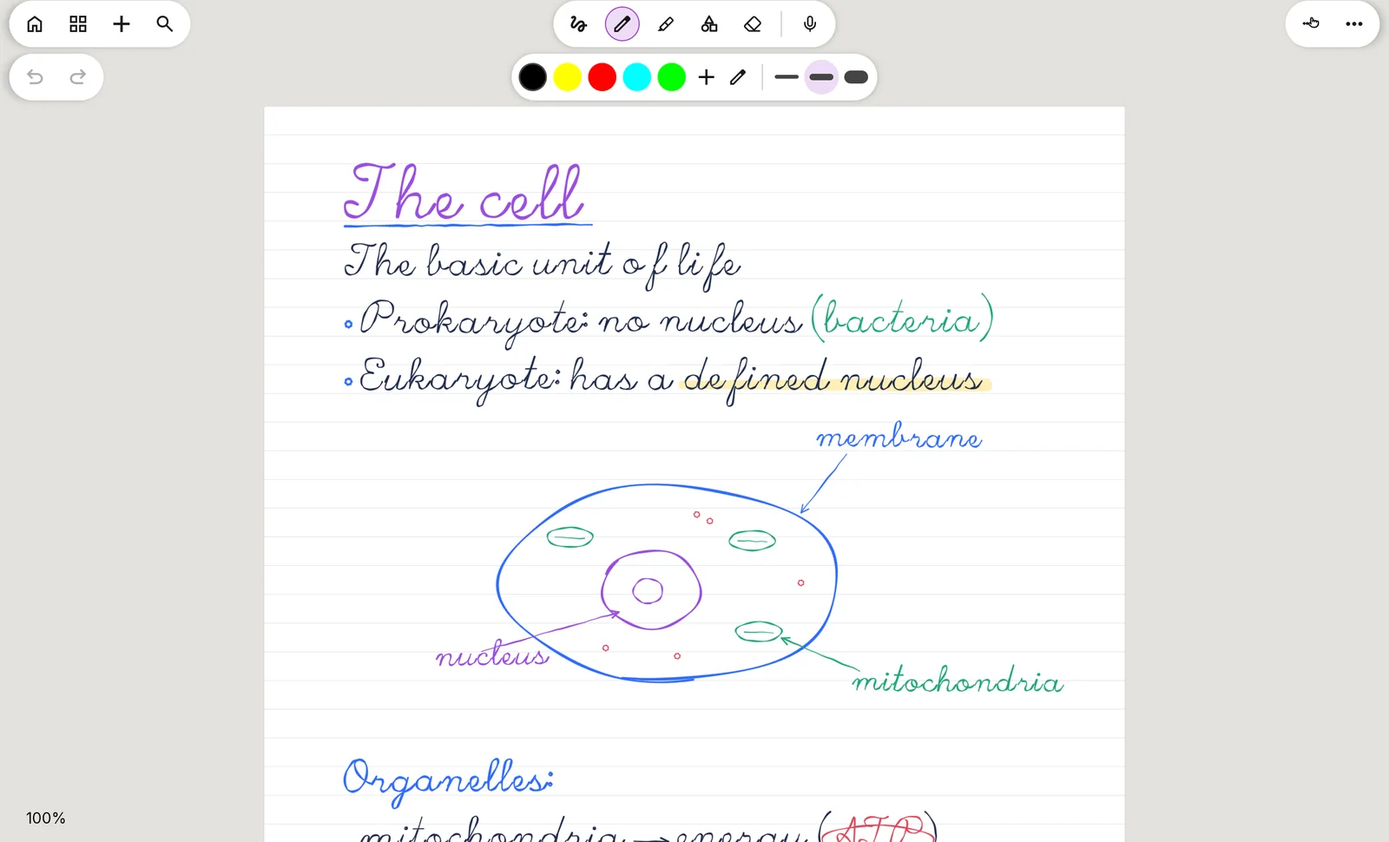
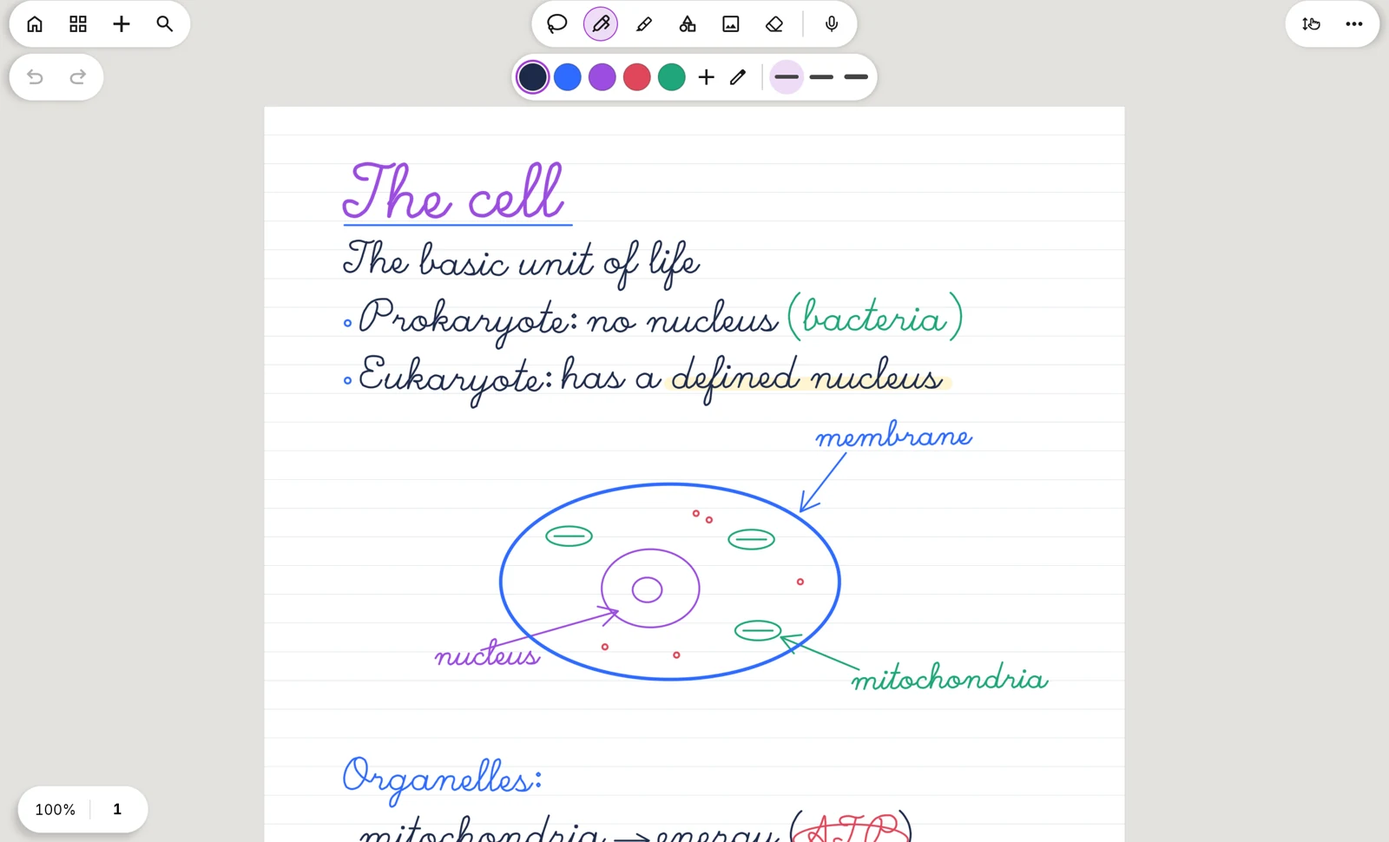
feat: la web con las funciones nuevas y capturas rehechas
- Funciones: tarjetas nuevas de fotos y escáner, lienzo infinito (BETA)
  y gestos del lápiz (BETA); tres plumas en "Tinta fluida"; el lazo en
  la tarjeta de formas dice lo que hace ahora; 3 grabaciones gratis.
- Secciones nuevas de Lazo y Lienzo infinito (BETA).
- "La barra de herramientas se adapta a cada pantalla" pasa de
  Sincronización a Escritura, que suma las formas y los dos dedos.
- Biblioteca: notas bloqueadas; Precio: fotos, lienzo y bloqueo en lo
  gratis; Privacidad: tarjeta de bloqueo con huella.
- Preguntas: los lápices y sus gestos, y probar Pro antes de pagar.
- Capturas nuevas en es/en y claro/oscuro (también el móvil y el lazo,
  que no tenían versión oscura), escritas en la app con la herramienta
  que toca (pluma, resaltador, formas) y con la cursiva unida.

Las frases aprobadas del título, el subtítulo y "pago único opcional"
no cambian.

diff --git a/swiftpen/index.html b/swiftpen/index.html
@@ -43,6 +43,10 @@
   <symbol id="i-persona" viewBox="0 0 24 24"><circle cx="12" cy="8" r="4"/><path d="M4 21a8 8 0 0 1 16 0"/></symbol>
   <symbol id="i-sinred" viewBox="0 0 24 24"><path d="M2 8.8a15 15 0 0 1 20 0M5 12.9a10 10 0 0 1 14 0M8.5 16.4a5 5 0 0 1 7 0"/><circle cx="12" cy="20" r="1"/></symbol>
   <symbol id="i-carpeta" viewBox="0 0 24 24"><path d="M3 7a2 2 0 0 1 2-2h4l2 2h8a2 2 0 0 1 2 2v8a2 2 0 0 1-2 2H5a2 2 0 0 1-2-2z"/></symbol>
+  <symbol id="i-imagen" viewBox="0 0 24 24"><rect x="3" y="4" width="18" height="16" rx="2"/><circle cx="9" cy="10" r="2"/><path d="m21 16-5-5-9 9"/></symbol>
+  <symbol id="i-infinito" viewBox="0 0 24 24"><path d="M12 12c-2-2.7-3.7-4-5.5-4a4 4 0 0 0 0 8c1.8 0 3.5-1.3 5.5-4zm0 0c2 2.7 3.7 4 5.5 4a4 4 0 0 0 0-8c-1.8 0-3.5 1.3-5.5 4z"/></symbol>
+  <symbol id="i-lapiz" viewBox="0 0 24 24"><path d="M17 3a2.8 2.8 0 0 1 4 4L7.5 20.5 2 22l1.5-5.5z"/><path d="m15 5 4 4"/></symbol>
+  <symbol id="i-huella" viewBox="0 0 24 24"><path d="M12 10a2 2 0 0 0-2 2c0 1 0 3.3-.6 5.6M14 13.1c0 2.4 0 4.9-1 7.9M17.3 21c.3-1.5.6-3.5.7-5M2 12a10 10 0 0 1 18-6M2 16h.01M21.8 16c.2-2 .1-5.4 0-6M5 19.5C5.5 18 6 15 6 12a6 6 0 0 1 .3-2M8.6 22c.2-.7.4-1.4.5-2.1M9 6.8a6 6 0 0 1 9 5.2v2"/></symbol>
   <symbol id="i-play" viewBox="0 0 24 24"><path d="M5 3.6v16.8c0 .8.9 1.3 1.6.9l13.8-8.4a1 1 0 0 0 0-1.8L6.6 2.7C5.9 2.3 5 2.8 5 3.6z"/></symbol>
 </svg>
 
@@ -90,17 +94,17 @@
     <div class="escena aparece">
       <div class="tableta">
         <picture lang="es">
-          <source srcset="img/editor-dark-es.webp?v=3" media="(prefers-color-scheme: dark)">
-          <img src="img/editor-es.webp?v=3" width="1600" height="970" alt="Una nota de biología escrita a mano en SwiftPen, con un diagrama de la célula.">
+          <source srcset="img/editor-dark-es.webp?v=4" media="(prefers-color-scheme: dark)">
+          <img src="img/editor-es.webp?v=4" width="1600" height="970" alt="Una nota de biología escrita a mano en SwiftPen, con un diagrama de la célula.">
         </picture>
         <picture lang="en">
-          <source srcset="img/editor-dark-en.webp?v=3" media="(prefers-color-scheme: dark)">
-          <img src="img/editor-en.webp?v=3" width="1600" height="970" alt="A handwritten biology note in SwiftPen, with a diagram of a cell.">
+          <source srcset="img/editor-dark-en.webp?v=4" media="(prefers-color-scheme: dark)">
+          <img src="img/editor-en.webp?v=4" width="1600" height="970" alt="A handwritten biology note in SwiftPen, with a diagram of a cell.">
         </picture>
       </div>
       <div class="telefono">
-        <img lang="es" src="img/phone-es.webp?v=3" width="720" height="1514" alt="La biblioteca de SwiftPen en un móvil.">
-        <img lang="en" src="img/phone-en.webp?v=3" width="720" height="1514" alt="The SwiftPen library on a phone.">
+        <picture lang="es"><source srcset="img/phone-dark-es.webp?v=4" media="(prefers-color-scheme: dark)"><img src="img/phone-es.webp?v=4" width="720" height="1514" alt="La biblioteca de SwiftPen en un móvil."></picture>
+        <picture lang="en"><source srcset="img/phone-dark-en.webp?v=4" media="(prefers-color-scheme: dark)"><img src="img/phone-en.webp?v=4" width="720" height="1514" alt="The SwiftPen library on a phone."></picture>
       </div>
     </div>
 
@@ -137,7 +141,18 @@
       <article class="tarjeta aparece">
         <div class="icono"><svg class="i" aria-hidden="true"><use href="#i-formas"/></svg></div>
         <h3><span lang="es">Formas que se enderezan</span><span lang="en">Shapes that tidy themselves</span></h3>
-        <p><span lang="es">Dibuja un círculo, una flecha o un rectángulo y deja el lápiz quieto un momento: se convierte en una forma limpia. Con el lazo mueves lo que quieras.</span><span lang="en">Sketch a circle, an arrow or a box and hold the pen for a moment: it turns into a clean shape. Use the lasso to move anything around.</span></p>
+        <p><span lang="es">Dibuja un círculo, una flecha o un rectángulo y deja el lápiz quieto un momento: se convierte en una forma limpia. Con el lazo las mueves, copias, duplicas u ordenas en capas.</span><span lang="en">Sketch a circle, an arrow or a box and hold the pen for a moment: it snaps into a clean shape. With the lasso you can move it, copy it, duplicate it or send it back a layer.</span></p>
+      </article>
+      <article class="tarjeta aparece">
+        <div class="icono"><svg class="i" aria-hidden="true"><use href="#i-imagen"/></svg></div>
+        <h3><span lang="es">Fotos y hojas escaneadas</span><span lang="en">Photos and scanned pages</span></h3>
+        <p><span lang="es">Pega una foto o escanea una hoja con la cámara y escribe encima. Recórtala, voltéala o fíjala para que no se mueva.</span><span lang="en">Drop in a photo or scan a page with the camera, then write on top. Crop it, flip it or lock it in place.</span></p>
+      </article>
+      <article class="tarjeta aparece">
+        <span class="beta">BETA</span>
+        <div class="icono"><svg class="i" aria-hidden="true"><use href="#i-infinito"/></svg></div>
+        <h3><span lang="es">Lienzo infinito</span><span lang="en">Infinite canvas</span></h3>
+        <p><span lang="es">Una hoja sin bordes para mapas mentales y lluvias de ideas. Y si te pierdes, un botón te lleva al trazo más cercano.</span><span lang="en">A page with no edges, for mind maps and brainstorms. Lost your place? One tap takes you to the nearest ink.</span></p>
       </article>
       <article class="tarjeta aparece">
         <div class="icono"><svg class="i" aria-hidden="true"><use href="#i-luna"/></svg></div>
@@ -147,13 +162,19 @@
       <article class="tarjeta aparece">
         <div class="icono"><svg class="i" aria-hidden="true"><use href="#i-rayo"/></svg></div>
         <h3><span lang="es">Tinta fluida</span><span lang="en">Smooth ink</span></h3>
-        <p><span lang="es">Sin retardo que se note: escribes y el trazo ya está ahí.</span><span lang="en">No lag you'll notice: you write, and the ink is already there.</span></p>
+        <p><span lang="es">Sin retardo que se note: escribes y el trazo ya está ahí. Con tres plumas: bolígrafo, caligrafía y lápiz.</span><span lang="en">No lag you'll notice: you write, and the ink is already there. Pick from three pens: ballpoint, calligraphy and pencil.</span></p>
+      </article>
+      <article class="tarjeta aparece">
+        <span class="beta">BETA</span>
+        <div class="icono"><svg class="i" aria-hidden="true"><use href="#i-lapiz"/></svg></div>
+        <h3><span lang="es">Los gestos de tu lápiz</span><span lang="en">Your pen's gestures</span></h3>
+        <p><span lang="es">El doble toque o el botón lateral, para borrar, deshacer o sacar el lazo. Reconoce el S Pen, HONOR, Lenovo, Wacom y USI, y graba los gestos de cualquier otro.</span><span lang="en">Double-tap or press the side button to erase, undo or grab the lasso. Works with S Pen, HONOR, Lenovo, Wacom and USI pens, and can learn the gestures of any other.</span></p>
       </article>
       <article class="tarjeta aparece">
         <span class="pro">PRO</span>
         <div class="icono"><svg class="i" aria-hidden="true"><use href="#i-micro"/></svg></div>
         <h3><span lang="es">Audio que sigue a tu letra</span><span lang="en">Audio that follows your writing</span></h3>
-        <p><span lang="es">Graba la clase mientras escribes. Después toca cualquier palabra y escucha qué se decía en ese momento.</span><span lang="en">Record the lecture while you write. Later, tap any word to hear what was being said at that moment.</span></p>
+        <p><span lang="es">Graba la clase mientras escribes. Después toca cualquier palabra y escucha qué se decía en ese momento. Pruébalo con 3 grabaciones gratis.</span><span lang="en">Record the lecture while you write. Later, tap any word to hear what was being said at that moment. Try it with 3 free recordings.</span></p>
       </article>
       <article class="tarjeta aparece">
         <span class="pro">PRO</span>
@@ -178,14 +199,61 @@
       <h2><span lang="es">Escribe como en un cuaderno.</span><span lang="en">Write like it's a notebook.</span></h2>
       <p class="entradilla"><span lang="es">Apoya la mano, cambia de color con un toque y resalta lo importante. Tu letra queda tal cual la escribiste.</span><span lang="en">Rest your hand, switch colors with a tap and highlight what matters. Your handwriting stays exactly as you wrote it.</span></p>
       <ul>
-        <li><svg class="i" aria-hidden="true"><use href="#i-ok"/></svg><span lang="es">Pluma, resaltador, goma y lazo</span><span lang="en">Pen, highlighter, eraser and lasso</span></li>
+        <li><svg class="i" aria-hidden="true"><use href="#i-ok"/></svg><span lang="es">Pluma, resaltador, formas, goma y lazo</span><span lang="en">Pen, highlighter, shapes, eraser and lasso</span></li>
         <li><svg class="i" aria-hidden="true"><use href="#i-ok"/></svg><span lang="es">Colores y grosores a un toque</span><span lang="en">Colors and widths one tap away</span></li>
-        <li><svg class="i" aria-hidden="true"><use href="#i-ok"/></svg><span lang="es">El lápiz escribe y el dedo navega, o como prefieras</span><span lang="en">Pen writes and finger scrolls, or however you like</span></li>
+        <li><svg class="i" aria-hidden="true"><use href="#i-ok"/></svg><span lang="es">El lápiz escribe y el dedo navega; con dos dedos, desplazas y haces zoom</span><span lang="en">The pen writes and your finger scrolls; use two fingers to pan and zoom</span></li>
+        <li><svg class="i" aria-hidden="true"><use href="#i-ok"/></svg><span lang="es">La barra de herramientas se adapta a cada pantalla</span><span lang="en">The toolbar adapts to every screen</span></li>
       </ul>
     </div>
     <div class="detalle aparece">
-      <img lang="es" src="img/detalle-es.webp" width="1300" height="345" loading="lazy" alt="Detalle de una nota escrita a mano con una frase resaltada.">
-      <img lang="en" src="img/detalle-en.webp" width="1300" height="345" loading="lazy" alt="Close-up of a handwritten note with a highlighted phrase.">
+      <img lang="es" src="img/detalle-es.webp?v=4" width="1300" height="239" loading="lazy" alt="Detalle de una nota escrita a mano con una frase resaltada.">
+      <img lang="en" src="img/detalle-en.webp?v=4" width="1300" height="239" loading="lazy" alt="Close-up of a handwritten note with a highlighted phrase.">
+    </div>
+  </div>
+</section>
+
+<section>
+  <div class="contenedor dueto invertido">
+    <div class="dueto-texto aparece">
+      <p class="etiqueta"><span lang="es">Lazo</span><span lang="en">Lasso</span></p>
+      <h2><span lang="es">Rodea, mueve, reordena.</span><span lang="en">Circle it, move it, rearrange it.</span></h2>
+      <p class="entradilla"><span lang="es">Rodea un diagrama y llévatelo a otro sitio, a otra página o a otra nota. Sin borrar y volver a empezar.</span><span lang="en">Loop around a diagram and take it somewhere else: another spot, another page, another note. No erasing and starting over.</span></p>
+      <ul>
+        <li><svg class="i" aria-hidden="true"><use href="#i-ok"/></svg><span lang="es">A mano alzada o en rectángulo</span><span lang="en">Freehand or rectangle</span></li>
+        <li><svg class="i" aria-hidden="true"><use href="#i-ok"/></svg><span lang="es">Eliges qué agarra: tinta, resaltador, formas o imágenes</span><span lang="en">Choose what it picks up: ink, highlighter, shapes or images</span></li>
+        <li><svg class="i" aria-hidden="true"><use href="#i-ok"/></svg><span lang="es">Copia, corta, duplica y pega con dos dedos</span><span lang="en">Copy, cut, duplicate, and paste with two fingers</span></li>
+        <li><svg class="i" aria-hidden="true"><use href="#i-ok"/></svg><span lang="es">Trae al frente o manda al fondo</span><span lang="en">Bring to front or send to back</span></li>
+        <li><svg class="i" aria-hidden="true"><use href="#i-ok"/></svg><span lang="es">Convierte lo seleccionado en texto <span class="pro">PRO</span></span><span lang="en">Turn the selection into text <span class="pro">PRO</span></span></li>
+      </ul>
+    </div>
+    <div class="detalle aparece">
+      <picture lang="es"><source srcset="img/lazo-dark-es.webp?v=4" media="(prefers-color-scheme: dark)"><img src="img/lazo-es.webp?v=4" width="1300" height="1000" loading="lazy" alt="El diagrama de la célula seleccionado con el lazo, con su barra de acciones."></picture>
+      <picture lang="en"><source srcset="img/lazo-dark-en.webp?v=4" media="(prefers-color-scheme: dark)"><img src="img/lazo-en.webp?v=4" width="1300" height="1000" loading="lazy" alt="The cell diagram selected with the lasso, with its action bar."></picture>
+    </div>
+  </div>
+</section>
+
+<section>
+  <div class="contenedor dueto">
+    <div class="dueto-texto aparece">
+      <p class="etiqueta"><span lang="es">Lienzo infinito</span><span lang="en">Infinite canvas</span> <span class="beta">BETA</span></p>
+      <h2><span lang="es">Para las ideas que no caben en una hoja.</span><span lang="en">For ideas that won't fit on a page.</span></h2>
+      <p class="entradilla"><span lang="es">Crea una nota sin bordes y crece hacia donde haga falta: mapas mentales, esquemas, lluvias de ideas. En la biblioteca, el símbolo de infinito te dice cuál es cuál.</span><span lang="en">Start a note with no edges and grow it in any direction: mind maps, outlines, brainstorms. In the library, the infinity sign tells you which is which.</span></p>
+      <ul>
+        <li><svg class="i" aria-hidden="true"><use href="#i-ok"/></svg><span lang="es">Desplaza y haz zoom con dos dedos</span><span lang="en">Pan and zoom with two fingers</span></li>
+        <li><svg class="i" aria-hidden="true"><use href="#i-ok"/></svg><span lang="es">Un botón te lleva al trazo más cercano si te pierdes</span><span lang="en">One button jumps to the nearest ink if you get lost</span></li>
+        <li><svg class="i" aria-hidden="true"><use href="#i-ok"/></svg><span lang="es">Las mismas herramientas que en una hoja</span><span lang="en">All the same tools as on a page</span></li>
+      </ul>
+    </div>
+    <div class="marco aparece">
+      <picture lang="es">
+        <source srcset="img/lienzo-dark-es.webp?v=4" media="(prefers-color-scheme: dark)">
+        <img src="img/lienzo-es.webp?v=4" width="1600" height="970" loading="lazy" alt="Un mapa mental de un viaje a Japón en el lienzo infinito.">
+      </picture>
+      <picture lang="en">
+        <source srcset="img/lienzo-dark-en.webp?v=4" media="(prefers-color-scheme: dark)">
+        <img src="img/lienzo-en.webp?v=4" width="1600" height="970" loading="lazy" alt="A mind map of a trip to Japan on the infinite canvas.">
+      </picture>
     </div>
   </div>
 </section>
@@ -195,16 +263,16 @@
     <div class="dueto-texto aparece">
       <p class="etiqueta"><span lang="es">Biblioteca</span><span lang="en">Library</span></p>
       <h2><span lang="es">Todo en su sitio.</span><span lang="en">Everything in its place.</span></h2>
-      <p class="entradilla"><span lang="es">Cada nota con su miniatura, en carpetas y subcarpetas con su color. Y si borras algo, la papelera te lo guarda un tiempo.</span><span lang="en">Every note with its own thumbnail, in folders and subfolders with their own colors. Delete something by mistake and the trash keeps it for a while.</span></p>
+      <p class="entradilla"><span lang="es">Cada nota con su miniatura, en carpetas y subcarpetas con su color. Las que bloqueas se ven borrosas hasta que pones tu huella. Y si borras algo, la papelera te lo guarda un tiempo.</span><span lang="en">Every note with its own thumbnail, in folders and subfolders with their own colors. Locked notes stay blurred until you use your fingerprint. Delete something by mistake and the trash keeps it for a while.</span></p>
     </div>
     <div class="marco aparece">
       <picture lang="es">
-        <source srcset="img/library-dark-es.webp?v=3" media="(prefers-color-scheme: dark)">
-        <img src="img/library-es.webp?v=3" width="1600" height="970" loading="lazy" alt="La biblioteca de SwiftPen con carpetas y miniaturas de notas.">
+        <source srcset="img/library-dark-es.webp?v=4" media="(prefers-color-scheme: dark)">
+        <img src="img/library-es.webp?v=4" width="1600" height="970" loading="lazy" alt="La biblioteca de SwiftPen con carpetas y miniaturas de notas.">
       </picture>
       <picture lang="en">
-        <source srcset="img/library-dark-en.webp?v=3" media="(prefers-color-scheme: dark)">
-        <img src="img/library-en.webp?v=3" width="1600" height="970" loading="lazy" alt="The SwiftPen library with folders and note thumbnails.">
+        <source srcset="img/library-dark-en.webp?v=4" media="(prefers-color-scheme: dark)">
+        <img src="img/library-en.webp?v=4" width="1600" height="970" loading="lazy" alt="The SwiftPen library with folders and note thumbnails.">
       </picture>
     </div>
   </div>
@@ -219,23 +287,22 @@
       <ul>
         <li><svg class="i" aria-hidden="true"><use href="#i-ok"/></svg><span lang="es">Si editas la misma nota en dos dispositivos, se combinan los cambios</span><span lang="en">Edit the same note on two devices and the changes are merged</span></li>
         <li><svg class="i" aria-hidden="true"><use href="#i-ok"/></svg><span lang="es">Las notas viejas pueden quedarse solo en la nube para liberar espacio</span><span lang="en">Older notes can live in the cloud only to free up space</span></li>
-        <li><svg class="i" aria-hidden="true"><use href="#i-ok"/></svg><span lang="es">La barra de herramientas se adapta a cada pantalla</span><span lang="en">The toolbar adapts to every screen</span></li>
       </ul>
     </div>
     <div class="escena escena-par aparece">
       <div class="tableta">
         <picture lang="es">
-          <source srcset="img/library-dark-es.webp?v=3" media="(prefers-color-scheme: dark)">
-          <img src="img/library-es.webp?v=3" width="1600" height="970" loading="lazy" alt="La misma biblioteca de notas en la tableta.">
+          <source srcset="img/library-dark-es.webp?v=4" media="(prefers-color-scheme: dark)">
+          <img src="img/library-es.webp?v=4" width="1600" height="970" loading="lazy" alt="La misma biblioteca de notas en la tableta.">
         </picture>
         <picture lang="en">
-          <source srcset="img/library-dark-en.webp?v=3" media="(prefers-color-scheme: dark)">
-          <img src="img/library-en.webp?v=3" width="1600" height="970" loading="lazy" alt="The same note library on the tablet.">
+          <source srcset="img/library-dark-en.webp?v=4" media="(prefers-color-scheme: dark)">
+          <img src="img/library-en.webp?v=4" width="1600" height="970" loading="lazy" alt="The same note library on the tablet.">
         </picture>
       </div>
       <div class="telefono">
-        <img lang="es" src="img/phone-es.webp?v=3" width="720" height="1514" loading="lazy" alt="Y en el móvil.">
-        <img lang="en" src="img/phone-en.webp?v=3" width="720" height="1514" loading="lazy" alt="And on the phone.">
+        <picture lang="es"><source srcset="img/phone-dark-es.webp?v=4" media="(prefers-color-scheme: dark)"><img src="img/phone-es.webp?v=4" width="720" height="1514" loading="lazy" alt="Y en el móvil."></picture>
+        <picture lang="en"><source srcset="img/phone-dark-en.webp?v=4" media="(prefers-color-scheme: dark)"><img src="img/phone-en.webp?v=4" width="720" height="1514" loading="lazy" alt="And on the phone."></picture>
       </div>
     </div>
   </div>
@@ -256,6 +323,8 @@
           <li><svg class="i" aria-hidden="true"><use href="#i-ok"/></svg><span lang="es">Todas las plantillas de papel</span><span lang="en">Every paper template</span></li>
           <li><svg class="i" aria-hidden="true"><use href="#i-ok"/></svg><span lang="es">Importar y exportar PDF</span><span lang="en">PDF import and export</span></li>
           <li><svg class="i" aria-hidden="true"><use href="#i-ok"/></svg><span lang="es">Formas, lazo y carpetas</span><span lang="en">Shapes, lasso and folders</span></li>
+          <li><svg class="i" aria-hidden="true"><use href="#i-ok"/></svg><span lang="es">Fotos, hojas escaneadas y lienzo infinito</span><span lang="en">Photos, scanned pages and the infinite canvas</span></li>
+          <li><svg class="i" aria-hidden="true"><use href="#i-ok"/></svg><span lang="es">Bloqueo con huella</span><span lang="en">Fingerprint lock</span></li>
           <li><svg class="i" aria-hidden="true"><use href="#i-ok"/></svg><span lang="es">Sincronización con WebDAV o Google Drive</span><span lang="en">Sync with WebDAV or Google Drive</span></li>
         </ul>
       </div>
@@ -264,7 +333,7 @@
         <div class="cuanto"><span lang="es">Pago único opcional</span><span lang="en">Optional one-time</span></div>
         <ul>
           <li><svg class="i" aria-hidden="true"><use href="#i-ok"/></svg><span lang="es">Todo lo gratis, y además:</span><span lang="en">Everything in Free, plus:</span></li>
-          <li><svg class="i" aria-hidden="true"><use href="#i-ok"/></svg><span lang="es">Audio sincronizado con lo que escribes</span><span lang="en">Audio synced to what you write</span></li>
+          <li><svg class="i" aria-hidden="true"><use href="#i-ok"/></svg><span lang="es">Audio sincronizado con lo que escribes (las 3 primeras grabaciones, gratis)</span><span lang="en">Audio synced to what you write (your first 3 recordings are free)</span></li>
           <li><svg class="i" aria-hidden="true"><use href="#i-ok"/></svg><span lang="es">Búsqueda en tu letra</span><span lang="en">Handwriting search</span></li>
           <li><svg class="i" aria-hidden="true"><use href="#i-ok"/></svg><span lang="es">Exportar lo escrito como texto ordenado</span><span lang="en">Export handwriting as tidy text</span></li>
         </ul>
@@ -317,6 +386,11 @@
         <h3><span lang="es">Solo sus propios archivos</span><span lang="en">Only its own files</span></h3>
         <p><span lang="es">En Google Drive, SwiftPen solo ve los archivos que crea. El resto de tu Drive queda fuera de su alcance.</span><span lang="en">In Google Drive, SwiftPen only sees the files it creates. The rest of your Drive stays out of reach.</span></p>
       </div>
+      <div class="tarjeta aparece">
+        <div class="icono"><svg class="i" aria-hidden="true"><use href="#i-huella"/></svg></div>
+        <h3><span lang="es">Bloqueo con huella</span><span lang="en">Fingerprint lock</span></h3>
+        <p><span lang="es">Bloquea toda la app o solo las notas que quieras, con tu huella o el bloqueo de pantalla. En las apps recientes tampoco se ven.</span><span lang="en">Lock the whole app or just the notes you choose, with your fingerprint or screen lock. They stay hidden in Recents, too.</span></p>
+      </div>
     </div>
   </div>
 </section>
@@ -336,11 +410,15 @@
       </details>
       <details class="aparece">
         <summary><span lang="es">¿Con qué lápiz funciona?</span><span lang="en">Which pens does it work with?</span></summary>
-        <p><span lang="es">Con los lápices activos de Android, como el S Pen o los USI. También puedes escribir con el dedo si lo activas.</span><span lang="en">With Android active styluses such as the S Pen or USI pens. You can also write with your finger if you turn it on.</span></p>
+        <p><span lang="es">Con los lápices activos de Android: el S Pen, los USI y Wacom, el Lenovo Tab Pen o el HONOR Magic-Pencil, entre otros. SwiftPen reconoce el tuyo y sus gestos, como el doble toque o el botón lateral; si no lo conoce, grabas sus gestos en los ajustes. También puedes escribir con el dedo si lo activas.</span><span lang="en">With Android active styluses: the S Pen, USI and Wacom pens, the Lenovo Tab Pen or the HONOR Magic-Pencil, among others. SwiftPen recognizes yours and its gestures, like a double-tap or the side button; if it doesn't know your pen, you can record its gestures in Settings. You can also write with your finger if you turn it on.</span></p>
       </details>
       <details class="aparece">
         <summary><span lang="es">¿Pro es una suscripción?</span><span lang="en">Is Pro a subscription?</span></summary>
         <p><span lang="es">No. Es un pago único opcional y queda tuyo: sirve para desbloquear más funciones y para apoyarme como desarrollador ;). Lo gratis sigue siendo gratis.</span><span lang="en">No. It's an optional one-time purchase and it's yours to keep: it unlocks extra features and supports me as a developer ;). The free features stay free.</span></p>
+      </details>
+      <details class="aparece">
+        <summary><span lang="es">¿Puedo probar las funciones Pro antes de pagar?</span><span lang="en">Can I try Pro before paying?</span></summary>
+        <p><span lang="es">El audio, sí: tienes 3 grabaciones gratis para ver cómo funciona. Las grabaciones que hagas se quedan en tus notas aunque no compres Pro.</span><span lang="en">Audio, yes: you get 3 free recordings to see how it works. They stay in your notes even if you never buy Pro.</span></p>
       </details>
       <details class="aparece">
         <summary><span lang="es">¿Hay versión para iPad o para el ordenador?</span><span lang="en">Is there an iPad or desktop version?</span></summary>

diff --git a/assets/site.css b/assets/site.css
@@ -286,3 +286,10 @@ svg.lleno { fill: currentColor; stroke: none; }
 /* Cabeceras de la tabla con el icono de cada app. */
 .comparativa .app { display: inline-flex; align-items: center; gap: 10px; }
 .comparativa .app img { width: 28px; height: 28px; border-radius: 7px; flex: none; }
+
+/* Etiqueta de las funciones en pruebas: como PRO, pero de contorno. */
+.beta {
+  display: inline-block; font-size: 11px; font-weight: 800; letter-spacing: .08em; color: var(--accent);
+  border: 1.5px solid currentColor; border-radius: 999px; padding: 2px 8px; vertical-align: middle; margin-left: 6px;
+}
+.tarjeta .beta { position: absolute; top: 24px; right: 24px; margin: 0; }
